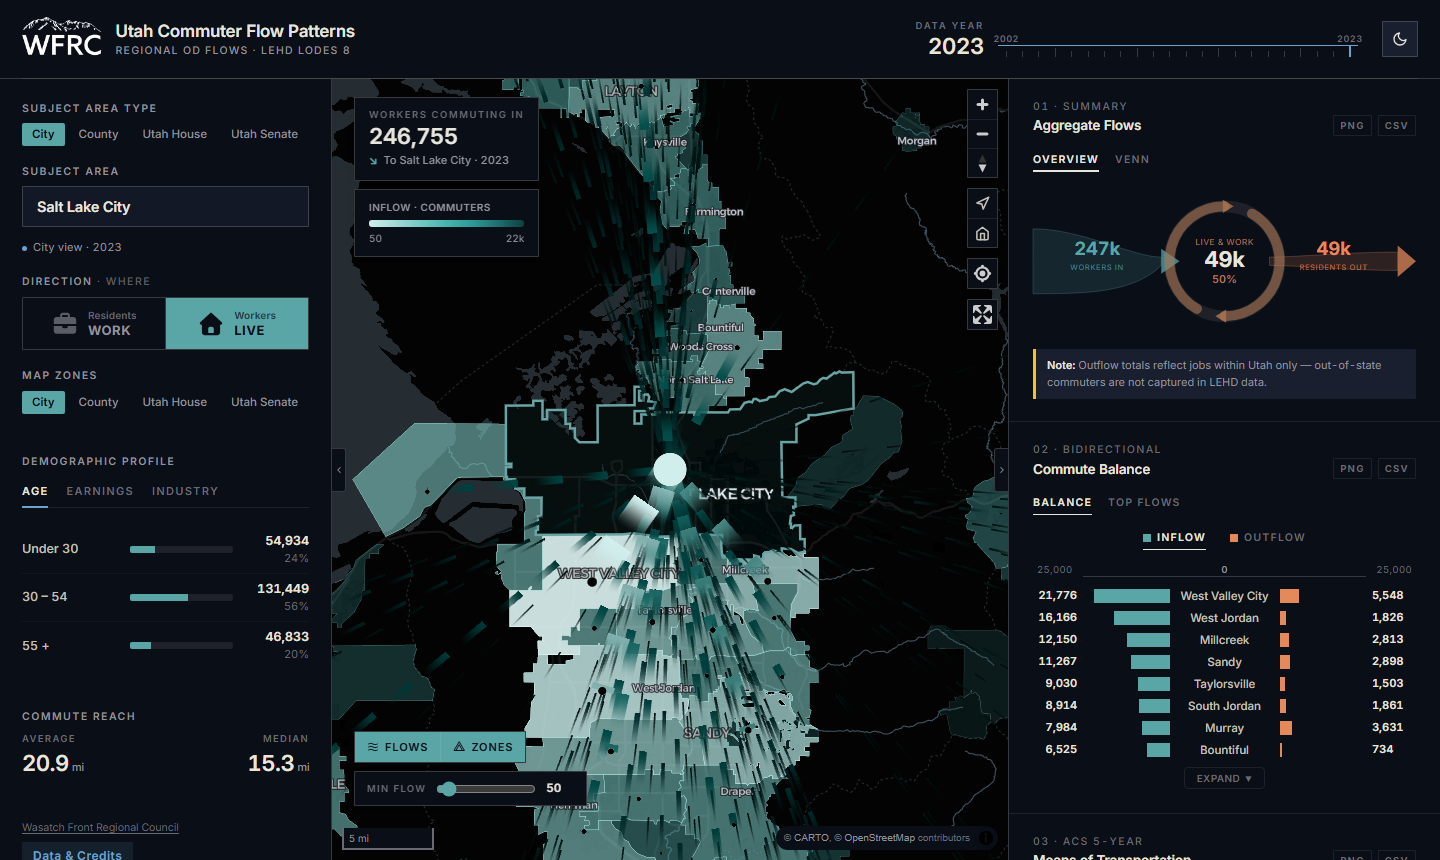
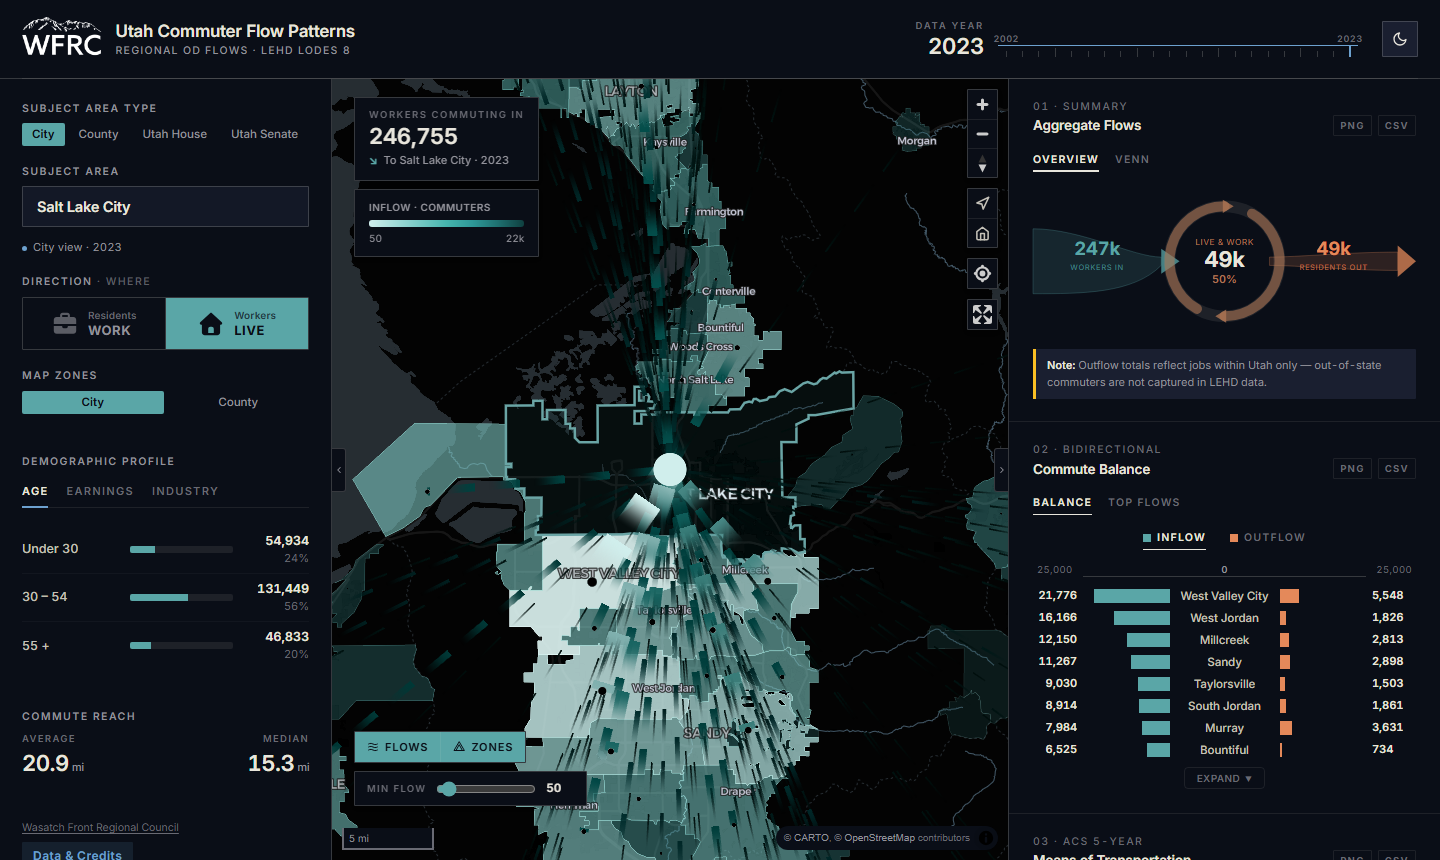
fix: remove house/senate from Map Zones toggle; update README and screenshots
District map zones hidden from the aggregation toggle (subject area type
keeps all four). Buttons commented out in sidebar.js, URL param guard
updated in main.js, and CSS flex rule scoped to two-button layout.
TO RE-ENABLE markers at all three touch points for easy restoration.

Changed region(s): [[0.0312, 0.4535, 0.2188, 0.4837]]

diff --git a/src/sidebar.js b/src/sidebar.js
@@ -82,8 +82,9 @@ export function initSidebar({ cityNames, countyNames, houseNames, senateNames, c
       <div class="type-strip" id="aggregation-toggle" role="group" aria-label="Aggregation level">
         <button data-value="city"   class="${state.aggregation === 'city'   ? 'active' : ''}">City</button>
         <button data-value="county" class="${state.aggregation === 'county' ? 'active' : ''}">County</button>
-        <button data-value="house"  class="${state.aggregation === 'house'  ? 'active' : ''}">Utah House</button>
-        <button data-value="senate" class="${state.aggregation === 'senate' ? 'active' : ''}">Utah Senate</button>
+        <!-- TO RE-ENABLE district map zones: uncomment the two lines below -->
+        <!-- <button data-value="house"  class="${state.aggregation === 'house'  ? 'active' : ''}">Utah House</button> -->
+        <!-- <button data-value="senate" class="${state.aggregation === 'senate' ? 'active' : ''}">Utah Senate</button> -->
       </div>
     </div>
 

diff --git a/src/main.js b/src/main.js
@@ -699,7 +699,9 @@ function _getUrlYear(availableYears, defaultYear) {
 function _applyUrlParams() {
   const p = new URLSearchParams(window.location.search);
   const agg = p.get('agg');
-  if (['city', 'county', 'house', 'senate'].includes(agg)) state.aggregation = agg;
+  // TO RE-ENABLE district map zones: replace the line below with the commented-out one
+  if (['city', 'county'].includes(agg)) state.aggregation = agg;
+  // if (['city', 'county', 'house', 'senate'].includes(agg)) state.aggregation = agg;
   const area = p.get('area');
   if (area) {
     const meta = _getMetaFor(state.aggregation);

diff --git a/src/styles/sidebar.css b/src/styles/sidebar.css
@@ -219,6 +219,9 @@
 .type-strip button:last-child { margin-right: 0; }
 .type-strip button:hover { color: var(--ink-2); }
 
+/* TO RE-ENABLE district map zones: remove the rule below (4 buttons fill naturally) */
+#aggregation-toggle button { flex: 1; margin-right: 0; text-align: center; }
+
 .type-strip button.active {
   color: var(--ink);
   font-weight: 600;

diff --git a/README.md b/README.md
@@ -15,7 +15,8 @@ An interactive WebAssembly-powered map for exploring commute flow patterns acros
 ## Features
 
 - **Arc flow map** — curved arcs connect origins and destinations; arc width and opacity scale with commuter volume
-- **Four geography levels** — select any city, county, Utah House district, or Utah Senate district; display destinations at any of those same levels independently
+- **Four subject area types** — select any city, county, Utah House district, or Utah Senate district as the subject of analysis
+- **Two map zone levels** — display destination choropleth and flow arcs aggregated at city or county level
 - **Both flow directions** — "where residents work" and "where workers live"
 - **22 years of data** — LEHD LODES data from 2002–2023; switch years from the header
 - **Six chart panels** (right sidebar, collapsible and resizable):